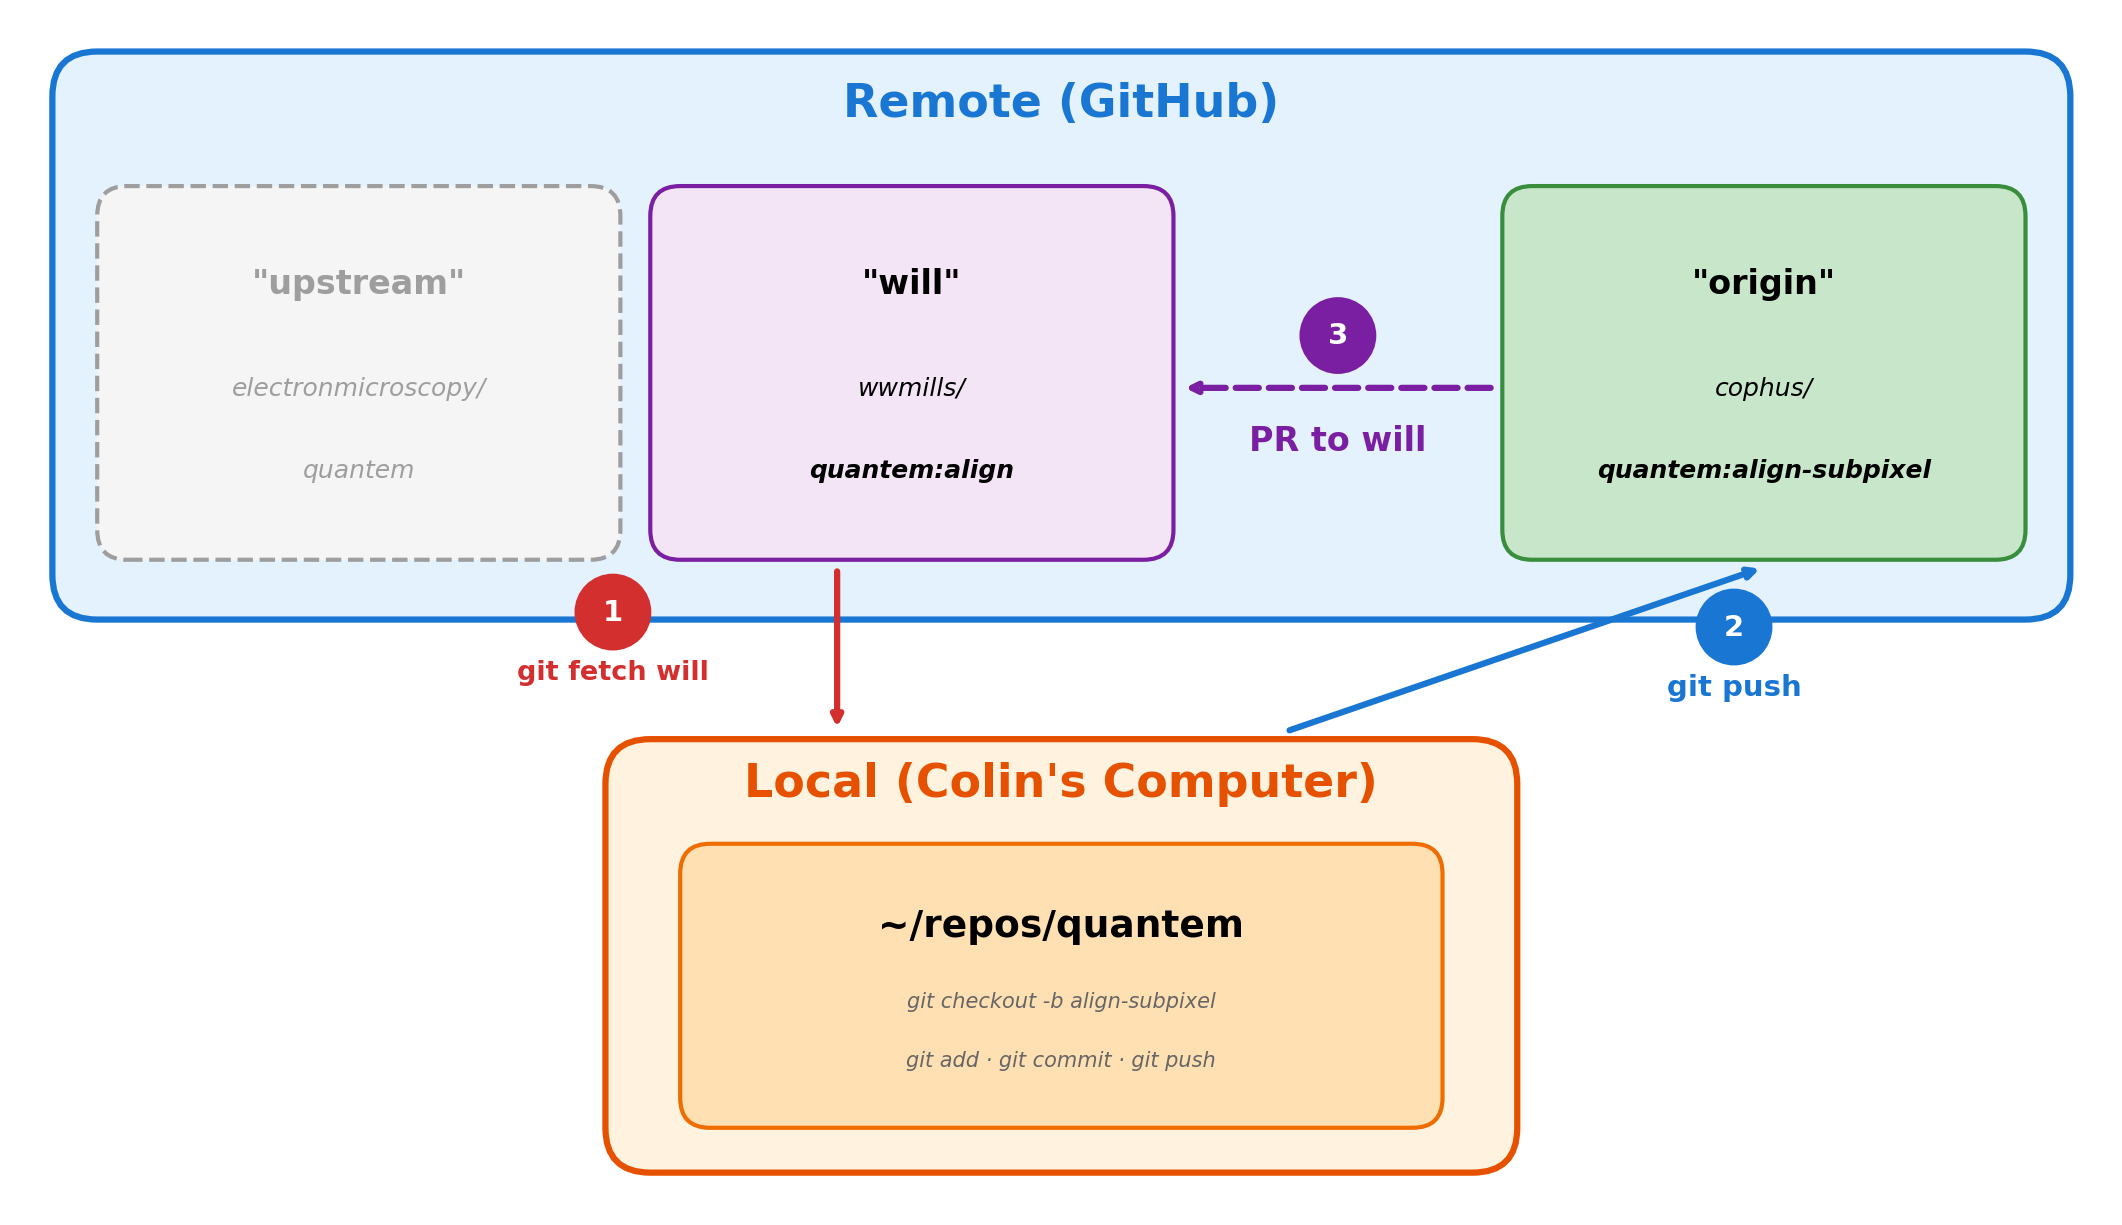
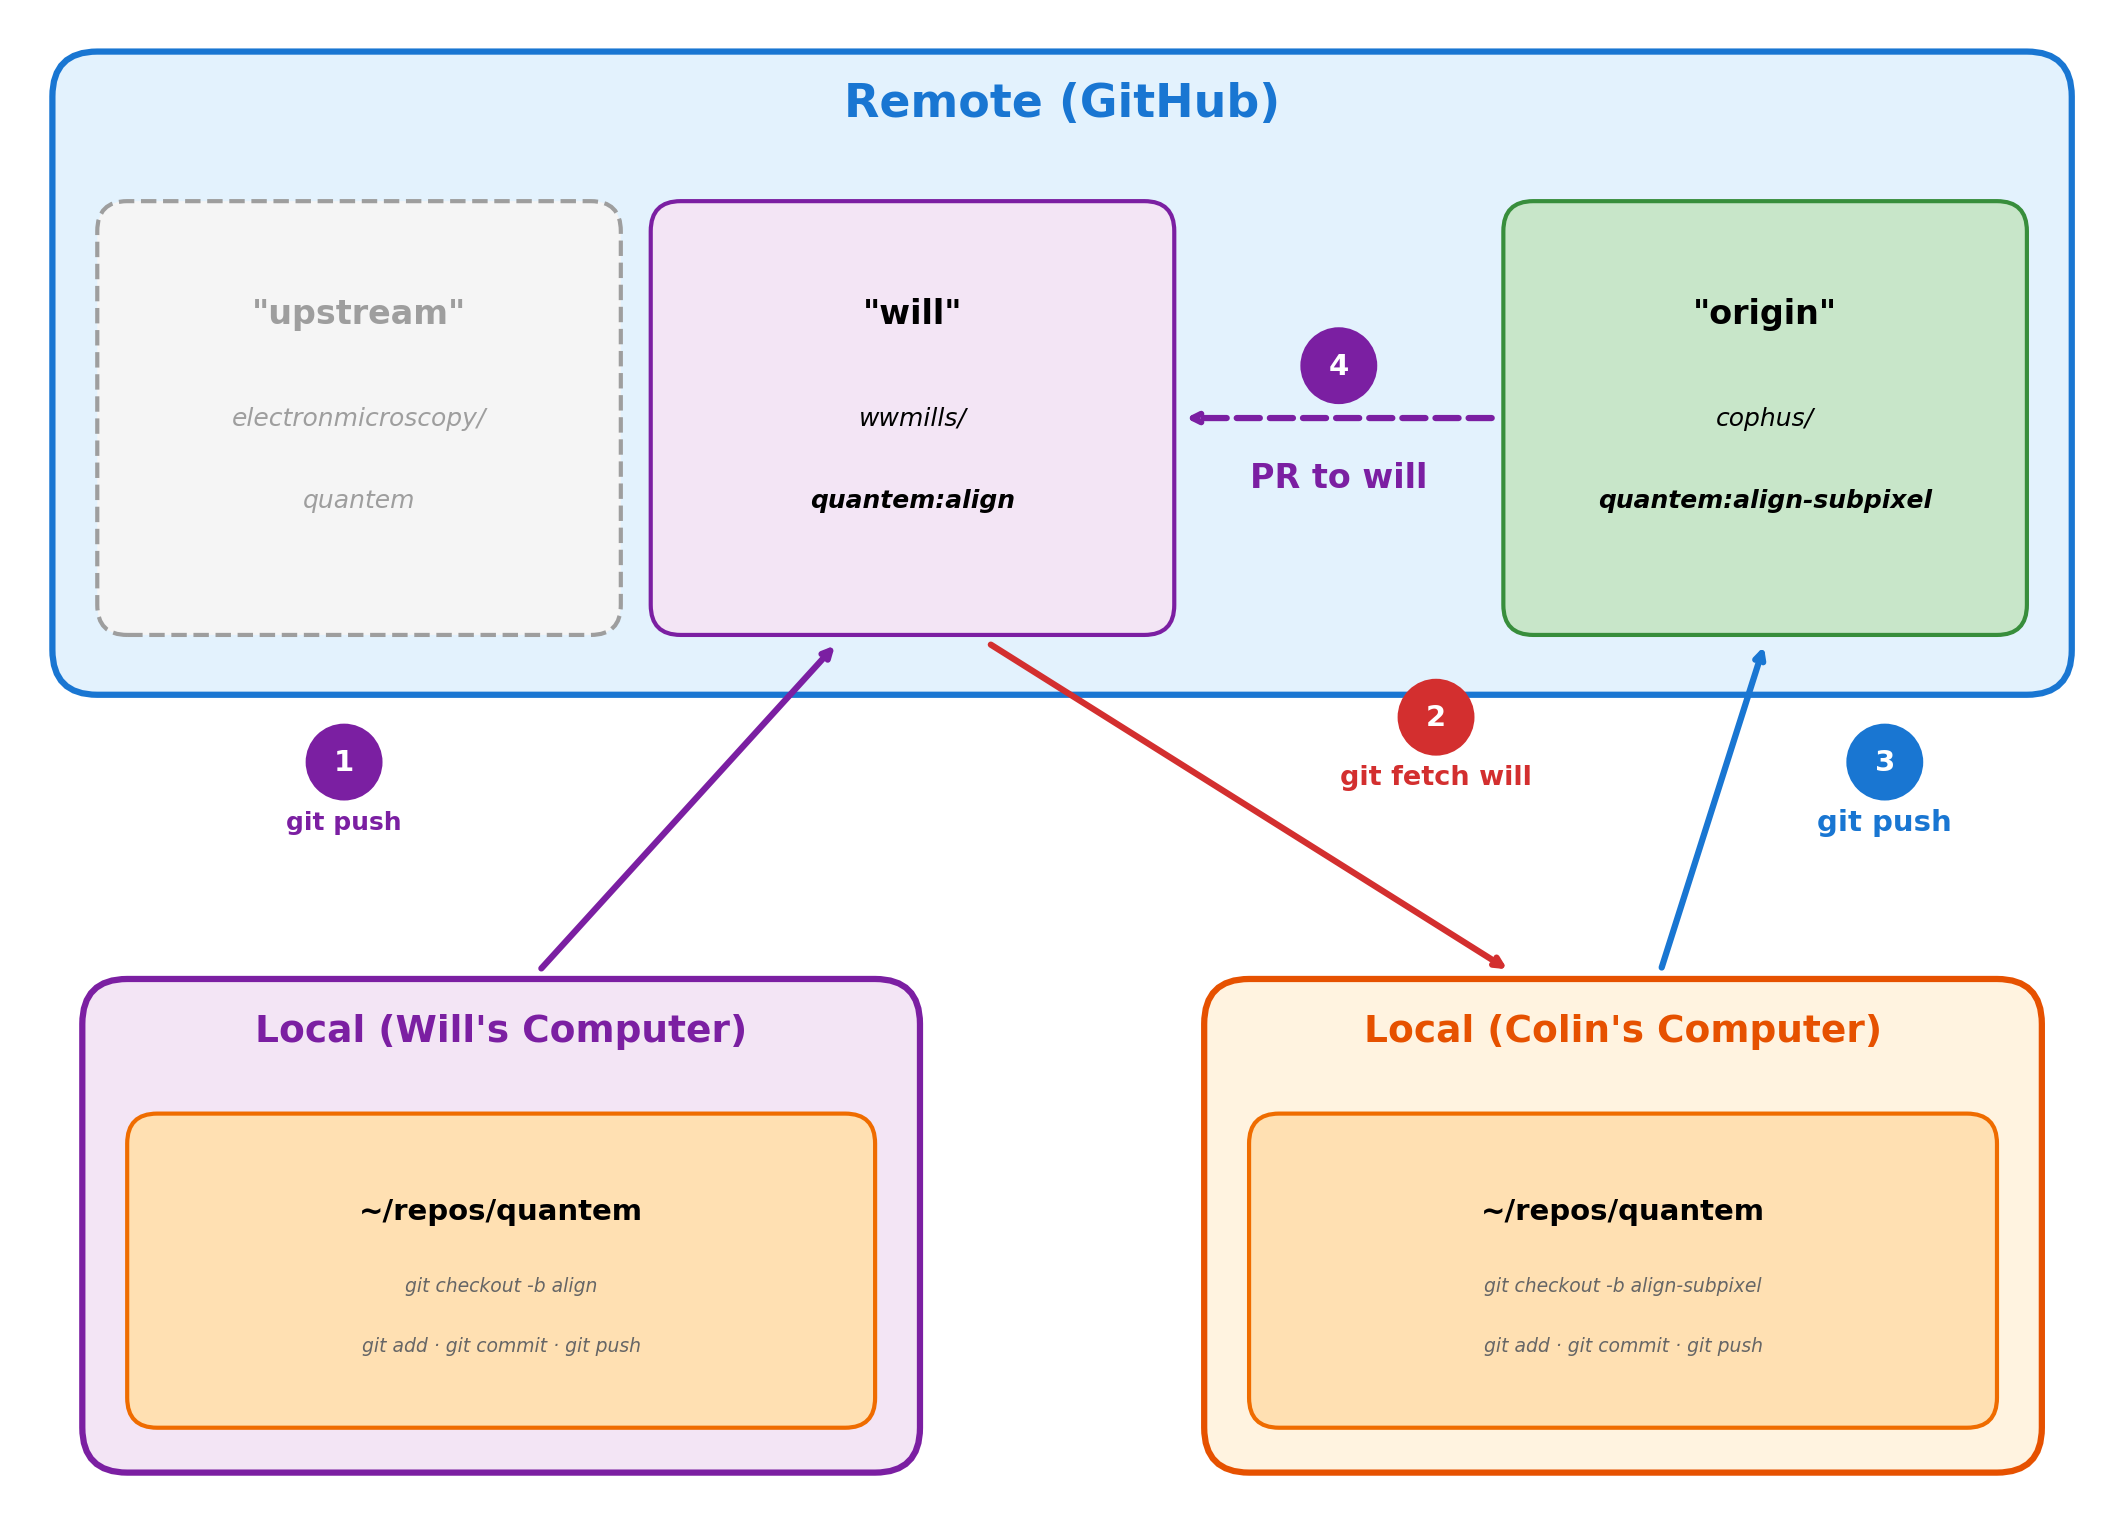
for case 1, make figure explicit with colin's contribution included

diff --git a/git_workflow_diagrams.py b/git_workflow_diagrams.py
@@ -12,85 +12,109 @@ will_color = '#f3e5f5'  # light purple for Case 1
 
 def case1_prototyping():
     """Case 1: Prototyping on your fork - PR goes to colleague's fork"""
-    fig, ax = plt.subplots(1, 1, figsize=(14, 8))
+    fig, ax = plt.subplots(1, 1, figsize=(14, 10))
     ax.set_xlim(0, 14)
-    ax.set_ylim(0, 8)
+    ax.set_ylim(0, 10)
     ax.set_aspect('equal')
     ax.axis('off')
 
     # Remote box (GitHub)
-    remote_box = FancyBboxPatch((0.3, 4), 13.4, 3.7,
+    remote_box = FancyBboxPatch((0.3, 5.5), 13.4, 4.2,
                                  boxstyle="round,pad=0.05,rounding_size=0.3",
                                  facecolor=remote_color, edgecolor='#1976d2', linewidth=3)
     ax.add_patch(remote_box)
-    ax.text(7, 7.4, 'Remote (GitHub)', ha='center', va='center', fontsize=22, fontweight='bold', color='#1976d2')
+    ax.text(7, 9.4, 'Remote (GitHub)', ha='center', va='center', fontsize=22, fontweight='bold', color='#1976d2')
 
-    # Local box (Colin's Computer)
-    local_box = FancyBboxPatch((4, 0.3), 6, 2.8,
+    # Local box (Will's Computer) - LEFT
+    will_local_box = FancyBboxPatch((0.5, 0.3), 5.5, 3.2,
+                                boxstyle="round,pad=0.05,rounding_size=0.3",
+                                facecolor=will_color, edgecolor='#7b1fa2', linewidth=3)
+    ax.add_patch(will_local_box)
+    ax.text(3.25, 3.2, "Local (Will's Computer)", ha='center', va='center', fontsize=18, fontweight='bold', color='#7b1fa2')
+
+    # Will's clone box
+    will_clone_box = FancyBboxPatch((0.8, 0.6), 4.9, 2.0,
+                                boxstyle="round,pad=0.05,rounding_size=0.2",
+                                facecolor=clone_color, edgecolor='#ef6c00', linewidth=2)
+    ax.add_patch(will_clone_box)
+    ax.text(3.25, 2.0, '~/repos/quantem', ha='center', va='center', fontsize=14, fontweight='bold')
+    ax.text(3.25, 1.5, 'git checkout -b align', ha='center', va='center', fontsize=9, color='#666', style='italic')
+    ax.text(3.25, 1.1, 'git add · git commit · git push', ha='center', va='center', fontsize=9, color='#666', style='italic')
+
+    # Local box (Colin's Computer) - RIGHT
+    colin_local_box = FancyBboxPatch((8, 0.3), 5.5, 3.2,
                                 boxstyle="round,pad=0.05,rounding_size=0.3",
                                 facecolor=local_color, edgecolor='#e65100', linewidth=3)
-    ax.add_patch(local_box)
-    ax.text(7, 2.85, "Local (Colin's Computer)", ha='center', va='center', fontsize=22, fontweight='bold', color='#e65100')
+    ax.add_patch(colin_local_box)
+    ax.text(10.75, 3.2, "Local (Colin's Computer)", ha='center', va='center', fontsize=18, fontweight='bold', color='#e65100')
+
+    # Colin's clone box
+    colin_clone_box = FancyBboxPatch((8.3, 0.6), 4.9, 2.0,
+                                boxstyle="round,pad=0.05,rounding_size=0.2",
+                                facecolor=clone_color, edgecolor='#ef6c00', linewidth=2)
+    ax.add_patch(colin_clone_box)
+    ax.text(10.75, 2.0, '~/repos/quantem', ha='center', va='center', fontsize=14, fontweight='bold')
+    ax.text(10.75, 1.5, 'git checkout -b align-subpixel', ha='center', va='center', fontsize=9, color='#666', style='italic')
+    ax.text(10.75, 1.1, 'git add · git commit · git push', ha='center', va='center', fontsize=9, color='#666', style='italic')
 
     # Upstream box (org repo - faded/background)
-    upstream_box = FancyBboxPatch((0.6, 4.4), 3.4, 2.4,
+    upstream_box = FancyBboxPatch((0.6, 5.9), 3.4, 2.8,
                                    boxstyle="round,pad=0.05,rounding_size=0.2",
                                    facecolor='#f5f5f5', edgecolor='#9e9e9e', linewidth=2, linestyle='dashed')
     ax.add_patch(upstream_box)
-    ax.text(2.3, 6.2, '"upstream"', ha='center', va='center', fontsize=16, fontweight='bold', color='#9e9e9e')
-    ax.text(2.3, 5.5, 'electronmicroscopy/', ha='center', va='center', fontsize=12, style='italic', color='#9e9e9e')
-    ax.text(2.3, 4.95, 'quantem', ha='center', va='center', fontsize=12, style='italic', color='#9e9e9e')
+    ax.text(2.3, 8.0, '"upstream"', ha='center', va='center', fontsize=16, fontweight='bold', color='#9e9e9e')
+    ax.text(2.3, 7.3, 'electronmicroscopy/', ha='center', va='center', fontsize=12, style='italic', color='#9e9e9e')
+    ax.text(2.3, 6.75, 'quantem', ha='center', va='center', fontsize=12, style='italic', color='#9e9e9e')
 
     # Will's fork box
-    will_box = FancyBboxPatch((4.3, 4.4), 3.4, 2.4,
+    will_box = FancyBboxPatch((4.3, 5.9), 3.4, 2.8,
                                 boxstyle="round,pad=0.05,rounding_size=0.2",
                                 facecolor=will_color, edgecolor='#7b1fa2', linewidth=2)
     ax.add_patch(will_box)
-    ax.text(6, 6.2, '"will"', ha='center', va='center', fontsize=16, fontweight='bold')
-    ax.text(6, 5.5, 'wwmills/', ha='center', va='center', fontsize=12, style='italic')
-    ax.text(6, 4.95, 'quantem:align', ha='center', va='center', fontsize=12, style='italic', fontweight='bold')
+    ax.text(6, 8.0, '"will"', ha='center', va='center', fontsize=16, fontweight='bold')
+    ax.text(6, 7.3, 'wwmills/', ha='center', va='center', fontsize=12, style='italic')
+    ax.text(6, 6.75, 'quantem:align', ha='center', va='center', fontsize=12, style='italic', fontweight='bold')
 
     # Origin box (Colin's fork)
-    origin_box = FancyBboxPatch((10, 4.4), 3.4, 2.4,
+    origin_box = FancyBboxPatch((10, 5.9), 3.4, 2.8,
                                  boxstyle="round,pad=0.05,rounding_size=0.2",
                                  facecolor=origin_color, edgecolor='#388e3c', linewidth=2)
     ax.add_patch(origin_box)
-    ax.text(11.7, 6.2, '"origin"', ha='center', va='center', fontsize=16, fontweight='bold')
-    ax.text(11.7, 5.5, 'cophus/', ha='center', va='center', fontsize=12, style='italic')
-    ax.text(11.7, 4.95, 'quantem:align-subpixel', ha='center', va='center', fontsize=12, style='italic', fontweight='bold')
+    ax.text(11.7, 8.0, '"origin"', ha='center', va='center', fontsize=16, fontweight='bold')
+    ax.text(11.7, 7.3, 'cophus/', ha='center', va='center', fontsize=12, style='italic')
+    ax.text(11.7, 6.75, 'quantem:align-subpixel', ha='center', va='center', fontsize=12, style='italic', fontweight='bold')
 
-    # Clone box
-    clone_box = FancyBboxPatch((4.5, 0.6), 5, 1.8,
-                                boxstyle="round,pad=0.05,rounding_size=0.2",
-                                facecolor=clone_color, edgecolor='#ef6c00', linewidth=2)
-    ax.add_patch(clone_box)
-    ax.text(7, 1.9, '~/repos/quantem', ha='center', va='center', fontsize=18, fontweight='bold')
-    ax.text(7, 1.4, 'git checkout -b align-subpixel', ha='center', va='center', fontsize=10, color='#666', style='italic')
-    ax.text(7, 1.0, 'git add · git commit · git push', ha='center', va='center', fontsize=10, color='#666', style='italic')
-
-    # Step 1: git fetch will - LEFT side, from will box down to local box
-    ax.annotate('', xy=(5.5, 3.2), xytext=(5.5, 4.3),
-                arrowprops=dict(arrowstyle='->', color='#d32f2f', lw=3))
-    ax.text(4.0, 3.6, 'git fetch will', ha='center', va='center', fontsize=13, color='#d32f2f', fontweight='bold')
-    circle1 = plt.Circle((4.0, 4.0), 0.25, color='#d32f2f', zorder=5)
+    # Step 1: Will pushes to his fork
+    ax.annotate('', xy=(5.5, 5.8), xytext=(3.5, 3.6),
+                arrowprops=dict(arrowstyle='->', color='#7b1fa2', lw=3))
+    ax.text(2.2, 4.6, 'git push', ha='center', va='center', fontsize=12, color='#7b1fa2', fontweight='bold')
+    circle1 = plt.Circle((2.2, 5.0), 0.25, color='#7b1fa2', zorder=5)
     ax.add_patch(circle1)
-    ax.text(4.0, 4.0, '1', ha='center', va='center', fontsize=14, color='white', fontweight='bold', zorder=6)
+    ax.text(2.2, 5.0, '1', ha='center', va='center', fontsize=14, color='white', fontweight='bold', zorder=6)
 
-    # Step 2: git push origin - RIGHT side, from local box up to origin
-    ax.annotate('', xy=(11.7, 4.3), xytext=(8.5, 3.2),
-                arrowprops=dict(arrowstyle='->', color='#1976d2', lw=3))
-    ax.text(11.5, 3.5, 'git push', ha='center', va='center', fontsize=14, color='#1976d2', fontweight='bold')
-    circle2 = plt.Circle((11.5, 3.9), 0.25, color='#1976d2', zorder=5)
+    # Step 2: Colin fetches from Will - from will box down to Colin's local
+    ax.annotate('', xy=(10.0, 3.6), xytext=(6.5, 5.8),
+                arrowprops=dict(arrowstyle='->', color='#d32f2f', lw=3))
+    ax.text(9.5, 4.9, 'git fetch will', ha='center', va='center', fontsize=13, color='#d32f2f', fontweight='bold')
+    circle2 = plt.Circle((9.5, 5.3), 0.25, color='#d32f2f', zorder=5)
     ax.add_patch(circle2)
-    ax.text(11.5, 3.9, '2', ha='center', va='center', fontsize=14, color='white', fontweight='bold', zorder=6)
+    ax.text(9.5, 5.3, '2', ha='center', va='center', fontsize=14, color='white', fontweight='bold', zorder=6)
 
-    # Step 3: PR (origin -> will's fork) - dashed
-    ax.annotate('', xy=(7.8, 5.5), xytext=(9.9, 5.5),
-                arrowprops=dict(arrowstyle='->', color='#7b1fa2', lw=3, linestyle='dashed'))
-    ax.text(8.85, 5.15, 'PR to will', ha='center', va='center', fontsize=16, color='#7b1fa2', fontweight='bold')
-    circle3 = plt.Circle((8.85, 5.85), 0.25, color='#7b1fa2', zorder=5)
+    # Step 3: Colin pushes to his origin
+    ax.annotate('', xy=(11.7, 5.8), xytext=(11.0, 3.6),
+                arrowprops=dict(arrowstyle='->', color='#1976d2', lw=3))
+    ax.text(12.5, 4.6, 'git push', ha='center', va='center', fontsize=14, color='#1976d2', fontweight='bold')
+    circle3 = plt.Circle((12.5, 5.0), 0.25, color='#1976d2', zorder=5)
     ax.add_patch(circle3)
-    ax.text(8.85, 5.85, '3', ha='center', va='center', fontsize=14, color='white', fontweight='bold', zorder=6)
+    ax.text(12.5, 5.0, '3', ha='center', va='center', fontsize=14, color='white', fontweight='bold', zorder=6)
+
+    # Step 4: PR (Colin's origin -> Will's fork) - dashed
+    ax.annotate('', xy=(7.8, 7.3), xytext=(9.9, 7.3),
+                arrowprops=dict(arrowstyle='->', color='#7b1fa2', lw=3, linestyle='dashed'))
+    ax.text(8.85, 6.9, 'PR to will', ha='center', va='center', fontsize=16, color='#7b1fa2', fontweight='bold')
+    circle4 = plt.Circle((8.85, 7.65), 0.25, color='#7b1fa2', zorder=5)
+    ax.add_patch(circle4)
+    ax.text(8.85, 7.65, '4', ha='center', va='center', fontsize=14, color='white', fontweight='bold', zorder=6)
 
     plt.tight_layout(pad=0.1)
     plt.savefig('img/git_workflow_case1.png', dpi=150, bbox_inches='tight', facecolor='white', pad_inches=0.1)
@@ -166,7 +190,7 @@ def case3_quick_fixes():
     ax.add_patch(circle2)
     ax.text(9.6, 4.0, '2', ha='center', va='center', fontsize=14, color='white', fontweight='bold', zorder=6)
 
-    # Step 3: PR (origin -> upstream:dev) - dashed
+    # Step 3: PR (origin -> upstream:dev)
     ax.annotate('', xy=(5.3, 5.5), xytext=(6.7, 5.5),
                 arrowprops=dict(arrowstyle='->', color='#7b1fa2', lw=3, linestyle='dashed'))
     ax.text(6, 5.15, 'PR to dev', ha='center', va='center', fontsize=18, color='#7b1fa2', fontweight='bold')
